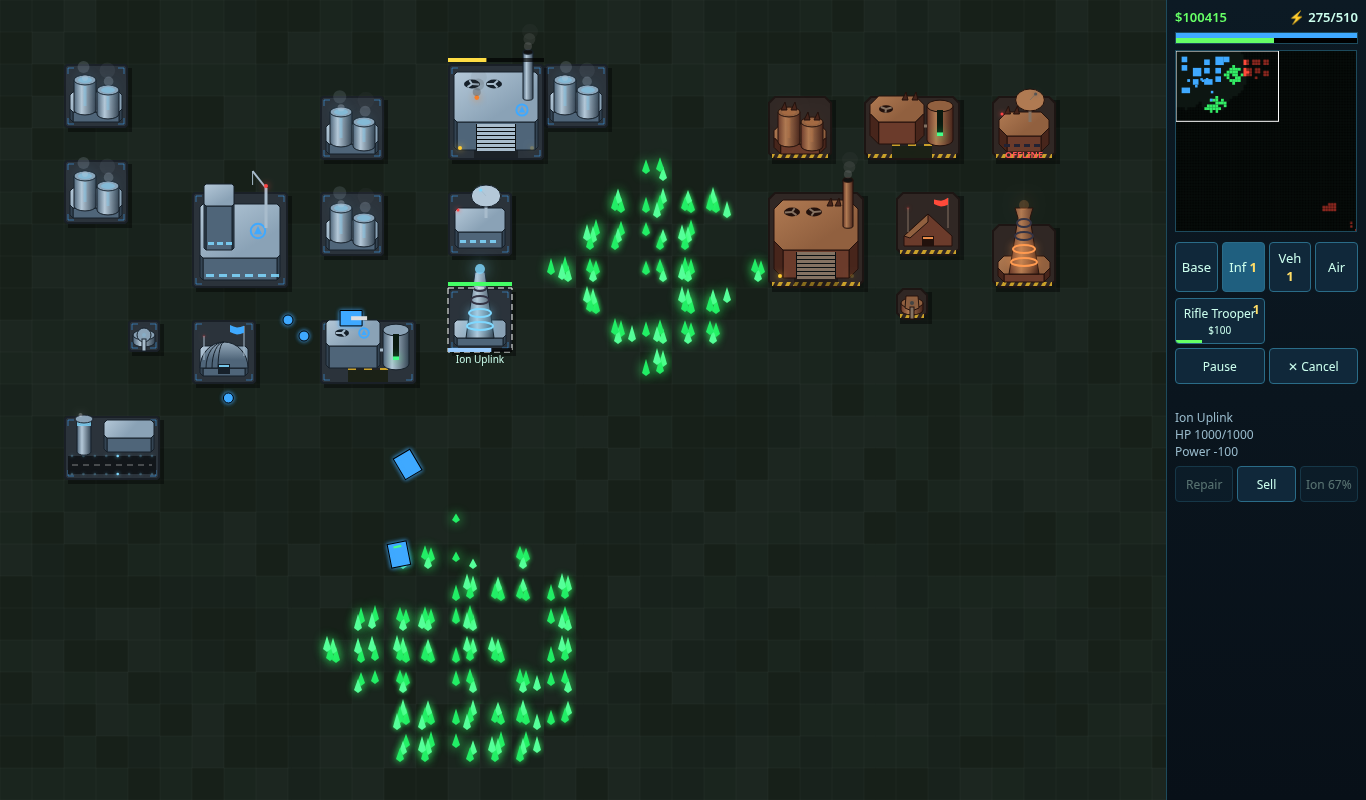
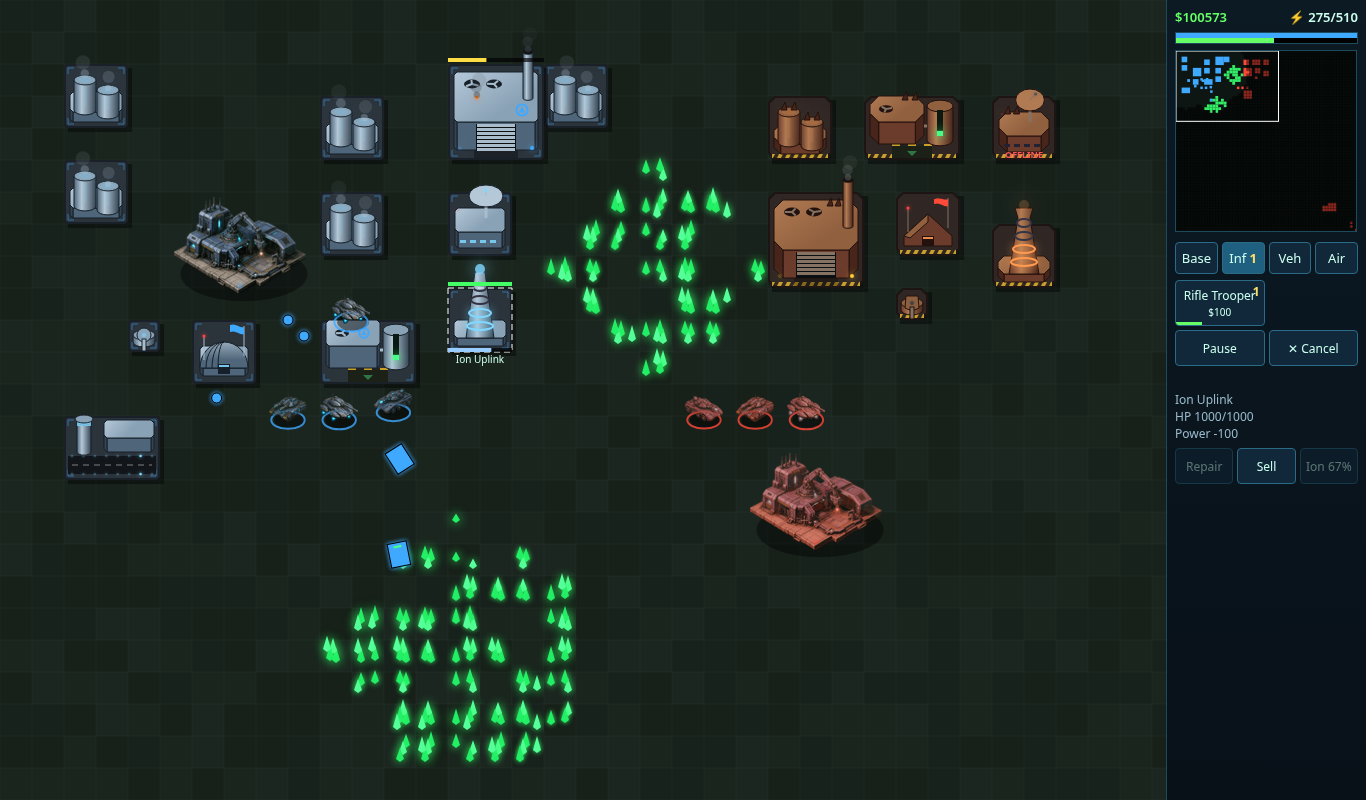
v3 (visual only): approved isometric Construction Yard + 3 cosmetic tank sprite variants, team tint, procedural fallback

diff --git a/src/engine/renderer.js b/src/engine/renderer.js
@@ -1,5 +1,6 @@
 import { TILE, TEAM_COLORS, BUILDINGS } from '../data/stats.js';
 import { drawBuildingArt } from './buildingArt.js';
+import { getSprite, TANK_VARIANTS } from './sprites.js';
 
 // Placeholder vector art. Swap draw* functions for sprites later.
 export class Renderer {
@@ -69,6 +70,7 @@ export class Renderer {
   }
   drawUnit(u, sel, t) {
     const ctx = this.ctx, col = TEAM_COLORS[u.team], r = u.radius;
+    if (u.type === 'tank' && this.drawTankSprite(u, sel, col, r)) return;
     ctx.save(); ctx.translate(u.x, u.y);
     if (u.isAir) { ctx.fillStyle = '#0006'; ctx.beginPath(); ctx.ellipse(6, 10, r, r * 0.6, 0, 0, 7); ctx.fill(); }
     ctx.rotate(u.angle);
@@ -88,6 +90,19 @@ export class Renderer {
     ctx.restore();
     if (u.type !== 'interceptor') this.hpBar(u, u.x - r, u.y - r - 7, r * 2, sel);
     if (sel) { ctx.strokeStyle = '#fff'; ctx.beginPath(); ctx.arc(u.x, u.y, r + 4, 0, 7); ctx.stroke(); }
+  }
+  // Cosmetic tank variants (cycled by unit id). Isometric art: flip horizontally by heading instead of rotating.
+  drawTankSprite(u, sel, col, r) {
+    const spr = getSprite(TANK_VARIANTS[u.id % 3], u.team); if (!spr) return false;
+    const ctx = this.ctx, c = Math.cos(u.angle); if (Math.abs(c) > 0.2) u.faceRight = c > 0;
+    const w = 38, h = w * spr.aspect;
+    ctx.fillStyle = '#0007'; ctx.beginPath(); ctx.ellipse(u.x + 2, u.y + 4, w * 0.42, h * 0.3, 0, 0, 7); ctx.fill();
+    ctx.strokeStyle = col; ctx.lineWidth = 2; ctx.globalAlpha = 0.8; ctx.beginPath(); ctx.ellipse(u.x, u.y + 4, w * 0.44, h * 0.32, 0, 0, 7); ctx.stroke(); ctx.globalAlpha = 1; ctx.lineWidth = 1;
+    ctx.save(); ctx.translate(u.x, u.y); if (u.faceRight) ctx.scale(-1, 1);
+    ctx.drawImage(spr.img, -w / 2, 6 - h, w, h); ctx.restore();
+    this.hpBar(u, u.x - r, u.y - h + 2, r * 2, sel);
+    if (sel) { ctx.strokeStyle = '#fff'; ctx.beginPath(); ctx.ellipse(u.x, u.y + 4, w * 0.5, h * 0.38, 0, 0, 7); ctx.stroke(); }
+    return true;
   }
   hpBar(e, x, y, w, always) {
     if (!always && e.hp >= e.stats.hp) return;

diff --git a/src/engine/buildingArt.js b/src/engine/buildingArt.js
@@ -1,4 +1,5 @@
 import { TILE } from '../data/stats.js';
+import { getSprite } from './sprites.js';
 
 // Procedural C&C-style 2.5D structures. Each building sits on its tile footprint; height is drawn "up" the screen
 // (oblique projection), so gameplay stays on the flat tile grid. Player = clean blue/steel tech, enemy = red/rust angular.
@@ -226,10 +227,16 @@ export function drawBuildingArt(ctx, b, t, game) {
     charge: b.stats?.superweapon ? b.charge / b.stats.superweapon.chargeTime : 0,
   };
   const build = Math.min(1, (b.age ?? 9) / 1.2); // rise-up animation when placed
+  const spr = b.type === 'cy' ? getSprite('cy', b.team) : null;
   ctx.save();
-  pad(ctx, P, X, Y, W, H);
+  if (!spr) pad(ctx, P, X, Y, W, H);
   if (build < 1) { ctx.beginPath(); ctx.rect(X - 20, Y + H - (H + 80) * build, W + 40, (H + 80) * build + 4); ctx.clip(); }
-  ART[b.type]?.(ctx, P, b, X, Y, W, H, t, s);
+  if (spr) { // approved isometric artwork (enemy copy is red-tinted); footprint stays the 3x3 tile grid
+    const sw = W * 1.38, sh = sw * spr.aspect;
+    ctx.fillStyle = '#0006'; ctx.beginPath(); ctx.ellipse(X + W / 2 + 4, Y + H - 14, sw * 0.48, sh * 0.28, 0, 0, 7); ctx.fill();
+    ctx.drawImage(spr.img, X + W / 2 - sw / 2, Y + H + 6 - sh, sw, sh);
+    glowDot(ctx, X + W / 2, Y + H - 2, 2.5, P.accent, blink(t, 1.2) ? 1 : 0.3); // team beacon
+  } else ART[b.type]?.(ctx, P, b, X, Y, W, H, t, s);
   ctx.restore();
   if (build < 1) { ctx.strokeStyle = P.glow; ctx.globalAlpha = 0.8; const yy = Y + H - (H + 60) * build; ctx.beginPath(); ctx.moveTo(X, yy); ctx.lineTo(X + W, yy); ctx.stroke(); ctx.globalAlpha = 1; }
   if (b.hp !== undefined && b.hp < b.stats.hp * 0.5) { // damage fire + smoke

diff --git a/src/engine/sprites.js b/src/engine/sprites.js
@@ -1,0 +1,24 @@
+// Preloaded raster sprites (assets/*.png, @2x for high-DPI screens). Each sprite gets a per-team canvas:
+// team 0 = original steel-blue art, team 1 = red/rust tinted copy so factions stay distinct.
+// get() returns null until loaded or if loading failed, so callers fall back to procedural drawing.
+const TINT = { 1: 'rgba(255,70,40,0.42)' };
+const NAMES = ['cy', 'tank_hover', 'tank_heavy', 'tank_laser'];
+const cache = {};
+
+function tinted(img, team) {
+  const c = document.createElement('canvas'); c.width = img.naturalWidth; c.height = img.naturalHeight;
+  const x = c.getContext('2d'); x.drawImage(img, 0, 0);
+  if (TINT[team]) { x.globalCompositeOperation = 'source-atop'; x.fillStyle = TINT[team]; x.fillRect(0, 0, c.width, c.height); }
+  return c;
+}
+export function loadSprites() {
+  const hi = (window.devicePixelRatio || 1) > 1;
+  for (const n of NAMES) {
+    const img = new Image(); img.decoding = 'async';
+    img.onload = () => { cache[n] = { 0: tinted(img, 0), 1: tinted(img, 1), aspect: img.naturalHeight / img.naturalWidth }; };
+    img.onerror = () => { if (hi && !img.dataset.retry) { img.dataset.retry = 1; img.src = `assets/${n}.png`; } else console.warn('sprite failed, using fallback:', n); };
+    img.src = `assets/${n}${hi ? '@2x' : ''}.png`;
+  }
+}
+export function getSprite(name, team) { const s = cache[name]; return s ? { img: s[team] || s[0], aspect: s.aspect } : null; }
+export const TANK_VARIANTS = ['tank_hover', 'tank_heavy', 'tank_laser'];

diff --git a/src/main.js b/src/main.js
@@ -7,6 +7,9 @@ import { PlayerUI } from './ui/selection.js';
 import { Sidebar } from './ui/sidebar.js';
 import { Minimap } from './ui/minimap.js';
 import { EnemyAI } from './ai/enemyAI.js';
+import { loadSprites } from './engine/sprites.js';
+
+loadSprites();
 
 const game = new Game();
 const camera = new Camera(game.map);

diff --git a/tests/playwright_checks.py b/tests/playwright_checks.py
@@ -82,9 +82,9 @@ def run(p, name, ctxargs, browser):
           game.fog.enabled=false; for(let i=0;i<30*2;i++) game.update(1/30);
           game.units.filter(u=>u.team===1).forEach(u=>{u.x=3000;u.y=3000; u.order=null});
           game.buildings.filter(b=>b.type==='ion').forEach(b=>b.charge=120);
-          game.buildings.find(b=>b.type==='factory'&&b.team===0).hp*=0.4; game.enqueue(0,'tank',false); ui.clearSelection(); ui.select(game.buildings.find(b=>b.type==='ion'&&b.team===0));
-          camera.centerOn(mobile? 13*32: 17*32, mobile? 8*32 : 8*32); }""", name != 'desktop')
-        pg.wait_for_timeout(1500); pg.screenshot(path=f'/workspace/rts-buildings-v2{"" if name=="desktop" else "-mobile"}.png')
+          game.buildings.find(b=>b.type==='factory'&&b.team===0).hp*=0.4; for(let i=0;i<3;i++){game.spawnUnit('tank',0,(9+i*1.6)*32,13*32).angle=i==1?0:Math.PI; const e=game.spawnUnit('tank',1,(22+i*1.6)*32,13*32); e.angle=i==1?Math.PI:0;} game.addBuilding('cy',1,24,14).age=9; game.buildings.at(-1).seen=true; ui.clearSelection(); ui.select(game.buildings.find(b=>b.type==='ion'&&b.team===0));
+          camera.centerOn(mobile? 9*32: 17*32, mobile? 10*32 : 9*32); }""", name != 'desktop')
+        pg.wait_for_timeout(1500); pg.screenshot(path=f'/workspace/rts-art-v3{"" if name=="desktop" else "-mobile"}.png')
     c.close()
 with sync_playwright() as p:
     b = p.chromium.launch(executable_path='/opt/google/chrome/chrome')

diff --git a/README.md b/README.md
@@ -1,9 +1,14 @@
-# Tiberium Skirmish — RTS Starter (v2)
+# Tiberium Skirmish — RTS Starter (v3)
 
 Top-down futuristic RTS skirmish (you vs. AI), inspired by Command & Conquer, with a StarCraft-style Carrier.
 Plain HTML5 Canvas + ES modules. No build step, no dependencies, no image assets (all art is procedural canvas drawing).
 
 **Play:** https://krepchin.github.io/rts-starter/ · **Run locally:** `python3 -m http.server 8000` here, open http://localhost:8000
+
+## What's new in v3 (visual only)
+Approved isometric artwork for the Construction Yard (both factions, enemy red-tinted) and three cosmetic Light Tank variants
+(hover/railgun, heavy twin-cannon, six-wheeled laser; cycled per unit, flipped by heading, team-color ring + tint).
+Sprites live in `assets/` (1x + @2x), preload via `src/engine/sprites.js`, and fall back to procedural art if they fail. Gameplay unchanged.
 
 ## What's new in v2
 **Buildings look like C&C structures.** They're drawn as chunky 2.5D blocks on the tile grid. Each has its own silhouette and animated details:

diff --git a/assets/README.md b/assets/README.md
@@ -1,3 +1,5 @@
 # Assets
-Placeholder. All art is currently drawn as vector shapes in `src/engine/renderer.js`
-(`drawBuilding`, `drawUnit`, `drawCrystals`). Real sprites/sounds go here later; swap the draw functions to use them.
+Approved isometric artwork, cut out to transparent PNGs (1x + @2x for high-DPI):
+- cy.png: Construction Yard (enemy uses a red-tinted copy at runtime)
+- tank_hover / tank_heavy / tank_laser: cosmetic Light Tank variants (cycled per unit)
+Loaded by src/engine/sprites.js; if an image fails the procedural art is used.
